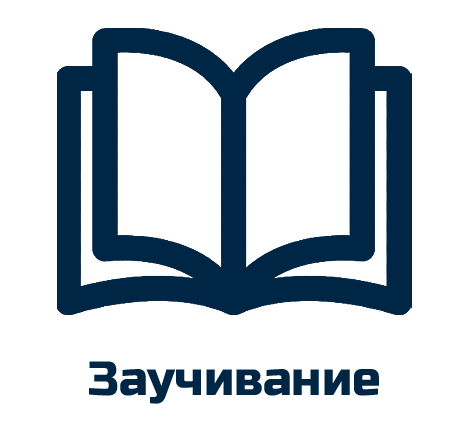
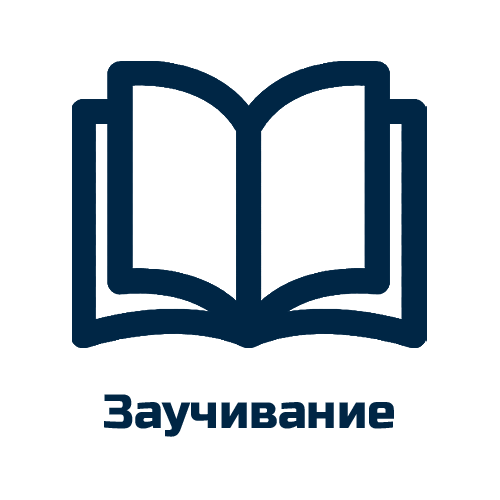
Reworked main screen

Changed region(s): [[0.1197, 0.06, 0.8974, 0.7506], [0.1795, 0.7806, 0.8077, 0.9307], [0.4188, 0.5704, 0.4786, 0.6305]]

diff --git a/Guppi-Memorise/Guppi-Memorise/MainPage.xaml b/Guppi-Memorise/Guppi-Memorise/MainPage.xaml
@@ -11,14 +11,15 @@
         <Label Text="Добро пожаловать!" FontSize="30" TextColor="#012545" HorizontalOptions="CenterAndExpand" VerticalTextAlignment="Center" FontFamily="Russo One" Margin="0, 25"/>
         <Grid HorizontalOptions="CenterAndExpand">
             <Grid.ColumnDefinitions>
-                <ColumnDefinition Width="*"/>
-                <ColumnDefinition Width="*"/>
+                <ColumnDefinition Width="180"/>
+                <ColumnDefinition Width="180"/>
             </Grid.ColumnDefinitions>
             <Grid.RowDefinitions>
-                <RowDefinition Height="185"/>
-                <RowDefinition Height="185"/>
+                <RowDefinition Height="180"/>
+                <RowDefinition Height="180"/>
+                <RowDefinition Height="Auto"/>
             </Grid.RowDefinitions>
-            <ImageButton IsEnabled="True" CornerRadius="5" HorizontalOptions="FillAndExpand" VerticalOptions="FillAndExpand" Grid.Column="0" Grid.Row="0" Source="{local:ImageResource Guppi-Memorise.Assets.flash-cards-icon-rev.png}" Clicked="FlashCardsButton">
+            <ImageButton IsEnabled="True" CornerRadius="5" Grid.Column="0" Grid.Row="0" Source="{local:ImageResource Guppi-Memorise.Assets.flash-cards-icon-rev.png}" Clicked="FlashCardsButton">
                 <ImageButton.BackgroundColor>
                     <!-- Necessary crutch -->
                     <Color>White</Color>
@@ -30,7 +31,7 @@
                     </LinearGradientBrush>
                 </ImageButton.Background>
             </ImageButton>
-            <ImageButton IsEnabled="True" CornerRadius="5" HorizontalOptions="FillAndExpand" VerticalOptions="FillAndExpand" Grid.Column="1" Grid.Row="0" Source="{local:ImageResource Guppi-Memorise.Assets.book-icon-rev.png}" Clicked="LearnTextButton">
+            <ImageButton IsEnabled="True" CornerRadius="5" Grid.Column="1" Grid.Row="0" Source="{local:ImageResource Guppi-Memorise.Assets.book-icon-rev.png}" Clicked="LearnTextButton">
                 <ImageButton.BackgroundColor>
                     <!-- Necessary crutch -->
                     <Color>White</Color>
@@ -42,7 +43,7 @@
                     </LinearGradientBrush>
                 </ImageButton.Background>
             </ImageButton>
-            <ImageButton IsEnabled="True" CornerRadius="5" HorizontalOptions="FillAndExpand" VerticalOptions="FillAndExpand" Grid.Column="0" Grid.Row="1" Source="{local:ImageResource Guppi-Memorise.Assets.stats-icon-rev.png}" Clicked="StatisticsButton">
+            <ImageButton IsEnabled="True" CornerRadius="5" Grid.Column="0" Grid.Row="1" Source="{local:ImageResource Guppi-Memorise.Assets.stats-icon-rev.png}" Clicked="StatisticsButton">
                 <ImageButton.BackgroundColor>
                     <!-- Necessary crutch -->
                     <Color>White</Color>
@@ -54,7 +55,7 @@
                     </LinearGradientBrush>
                 </ImageButton.Background>
             </ImageButton>
-            <ImageButton IsEnabled="True" CornerRadius="5" HorizontalOptions="FillAndExpand" VerticalOptions="FillAndExpand" Grid.Column="1" Grid.Row="1" Source="{local:ImageResource Guppi-Memorise.Assets.profile-icon-rev.png}" Clicked="ProfileButton">
+            <ImageButton IsEnabled="True" CornerRadius="5" Grid.Column="1" Grid.Row="1" Source="{local:ImageResource Guppi-Memorise.Assets.profile-icon-rev.png}" Clicked="ProfileButton">
                 <ImageButton.BackgroundColor>
                     <!-- Necessary crutch -->
                     <Color>White</Color>
@@ -66,25 +67,23 @@
                     </LinearGradientBrush>
                 </ImageButton.Background>
             </ImageButton>
-        </Grid>
-        <StackLayout Margin="0, 10">
-            <Button Text="О приложении" Font="Russo One" TextTransform="None" FontSize="20" HeightRequest="50" IsEnabled="True" CornerRadius="5" HorizontalOptions="FillAndExpand" Clicked="AboutAppButton">
+            <Button Text="О приложении" Font="Russo One" TextTransform="None" FontSize="20" Grid.Column="0" Grid.ColumnSpan="2" Grid.Row="3" HeightRequest="50" HorizontalOptions="FillAndExpand" IsEnabled="True" CornerRadius="5" Clicked="AboutAppButton">
                 <Button.BackgroundColor>
                     <!-- Necessary crutch -->
                     <Color>White</Color>
                 </Button.BackgroundColor>
                 <Button.Background>
                     <LinearGradientBrush EndPoint="0,1">
-                        <GradientStop Color="#00CCAD" Offset="0.0"/>
-                        <GradientStop Color="#07957A" Offset="1.0"/>
+                        <GradientStop Color="#08D283" Offset="0.0"/>
+                        <GradientStop Color="#1C9D62" Offset="1.0"/>
                     </LinearGradientBrush>
                 </Button.Background>
             </Button>
-            <Label Text="О нас" x:Name="aboutUs" FontSize="20" TextColor="#012545" HorizontalOptions="CenterAndExpand" VerticalOptions="CenterAndExpand" VerticalTextAlignment="Center" FontFamily="Russo One" TextDecorations="Underline">
-                <Label.GestureRecognizers>
-                    <TapGestureRecognizer NumberOfTapsRequired="1" Tapped="AboutUsButton"/>
-                </Label.GestureRecognizers>
-            </Label>
-        </StackLayout>
+        </Grid>
+        <Label Text="О нас" x:Name="aboutUs" FontSize="20" TextColor="#012545" HorizontalOptions="CenterAndExpand" VerticalOptions="EndAndExpand" VerticalTextAlignment="Center" FontFamily="Russo One" TextDecorations="Underline" Margin="20">
+            <Label.GestureRecognizers>
+                <TapGestureRecognizer NumberOfTapsRequired="1" Tapped="AboutUsButton"/>
+            </Label.GestureRecognizers>
+        </Label>
     </StackLayout>
 </ContentPage>

diff --git a/Guppi-Memorise/Guppi-Memorise/FlashCardsPage.xaml.cs b/Guppi-Memorise/Guppi-Memorise/FlashCardsPage.xaml.cs
@@ -4,7 +4,7 @@ using System.Linq;
 using System.Text;
 using System.Threading.Tasks;
 using System.Collections.ObjectModel;
-
+using System.Diagnostics;
 using Xamarin.Forms;
 using Xamarin.Forms.Xaml;
 
@@ -53,8 +53,11 @@ namespace Guppi_Memorise {
                 var newDeck = new Deck();
                 await DB.AddDeck(newDeck);
                 decks.Add(newDeck);
+
+
+
                 var deck = layout.Children.FirstOrDefault(i => Int32.Parse(i.ClassId) == newDeck.Id);
-                RenameCard(deck);
+                //RenameCard(newDeck);
             }
         }
 

diff --git a/Guppi-Memorise/Guppi-Memorise/MainPage.xaml.cs b/Guppi-Memorise/Guppi-Memorise/MainPage.xaml.cs
@@ -41,7 +41,6 @@ namespace Guppi_Memorise
         public MainPage()
         {
             InitializeComponent();
-
         }
     }
 }
